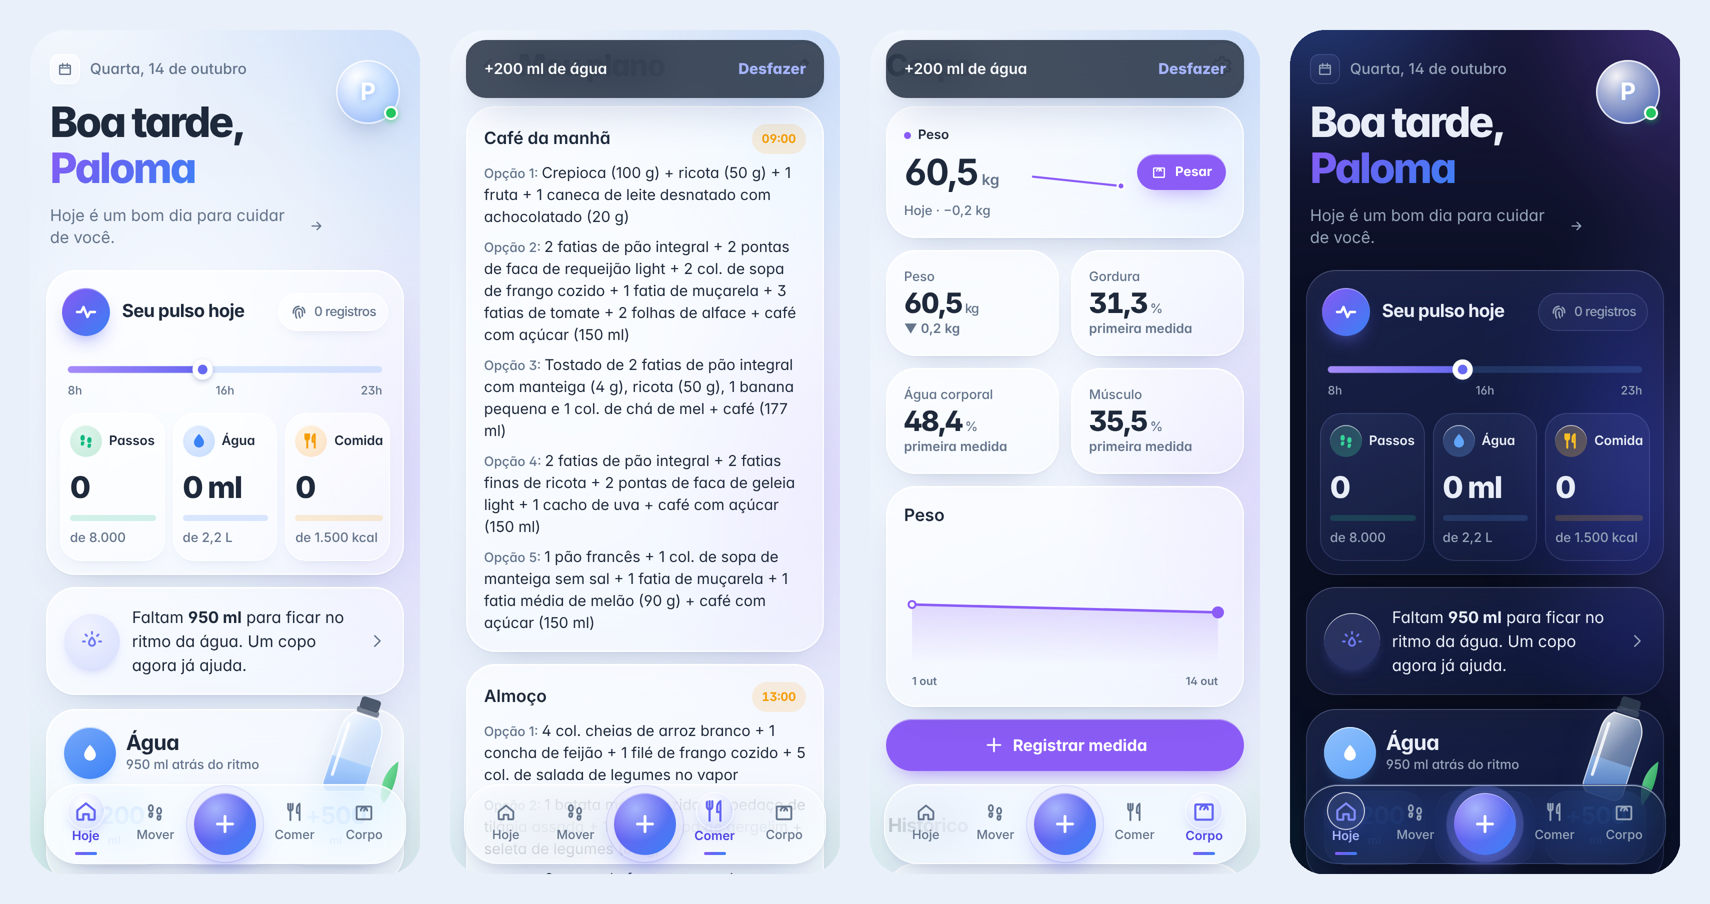
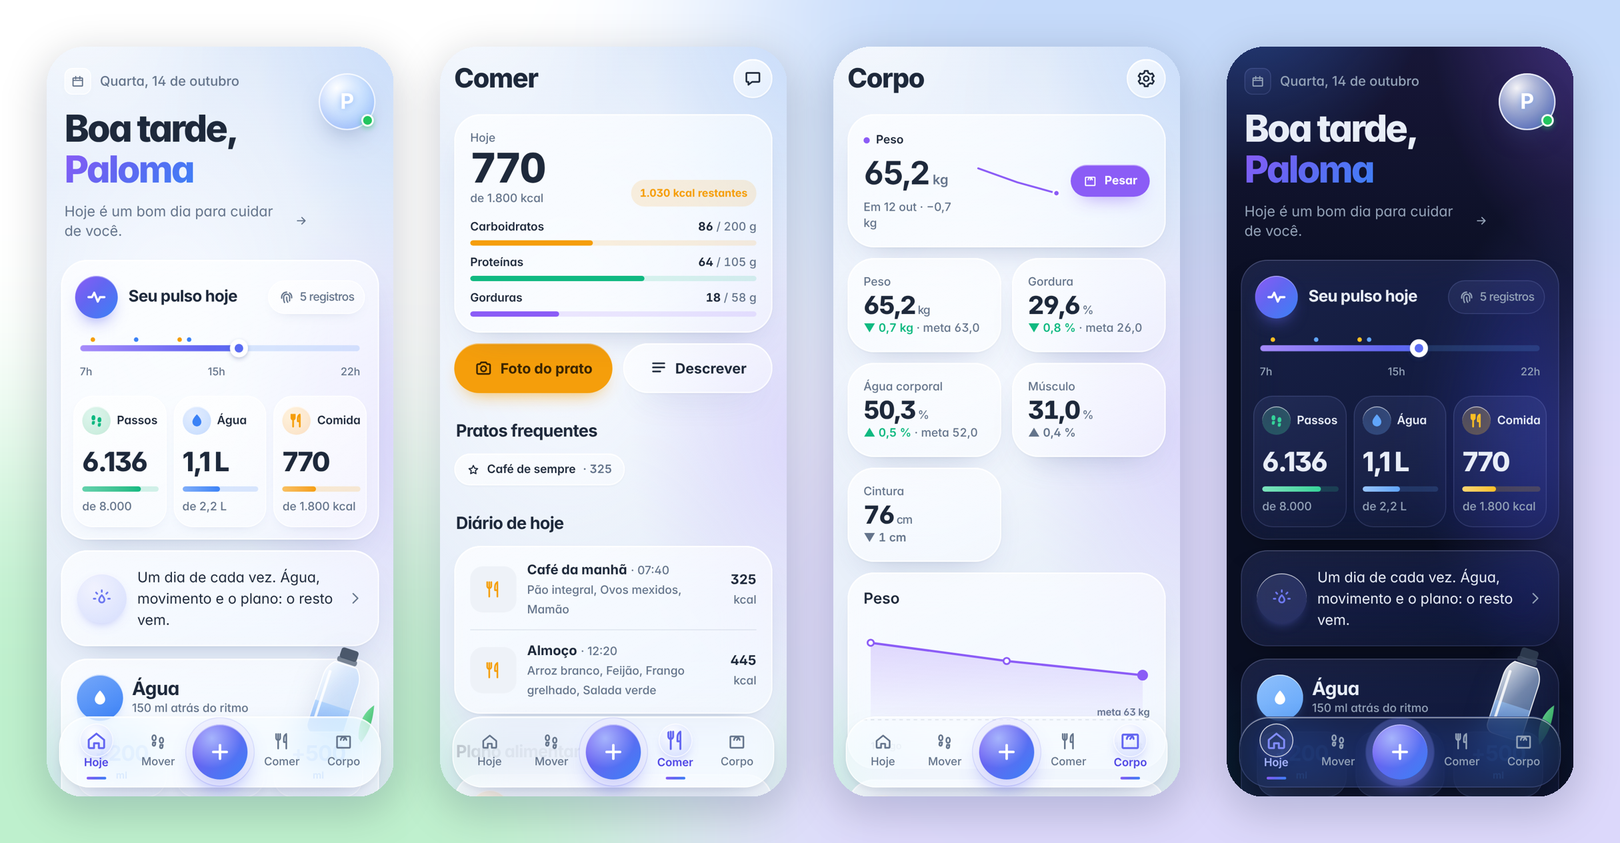
docs: README de produto com imagens novas

diff --git a/README.md b/README.md
@@ -1,112 +1,171 @@
 <div align="center">
 
-# Ritmo
+<img src="public/favicon.svg" width="88" alt="ritmo" />
 
-### Seu corpo, no seu ritmo: passos, corridas, comida com IA, água e corpo num app só.
+# ritmo
+
+### Saúde do dia a dia num app só: passos, água, comida com IA, corpo e corridas.
+
+**Beba água. Cuide do seu ritmo.**
+
+[![Abrir o ritmo](https://img.shields.io/badge/▶_Abrir_o_ritmo-6366F1?style=for-the-badge)](https://ritmo-tau-inky.vercel.app/)
 
 ![React](https://img.shields.io/badge/React-20232a?style=flat-square&logo=react&logoColor=61DAFB)
 ![TypeScript](https://img.shields.io/badge/TypeScript-007ACC?style=flat-square&logo=typescript&logoColor=white)
 ![Firebase](https://img.shields.io/badge/Firebase-039BE5?style=flat-square&logo=firebase&logoColor=white)
-![Gemini](https://img.shields.io/badge/Gemini-AI_Logic-8E75B2?style=flat-square)
-![PWA](https://img.shields.io/badge/PWA-instalável-FF5A4E?style=flat-square)
+![Gemini](https://img.shields.io/badge/IA-Gemini-8E75B2?style=flat-square)
+![PWA](https://img.shields.io/badge/PWA-instalável-3B82F6?style=flat-square)
 
-![Telas do Ritmo](docs/telas.png)
+<br />
+
+![O ritmo no computador e no celular](docs/hero.png)
 
 </div>
 
-## O que tem dentro
+## O problema
 
-| Módulo | O que faz |
-| --- | --- |
-| **Hoje** | 3 anéis (passos, água, comida), a frase útil do dia, água em 1 toque, a próxima refeição do plano e a última corrida. |
-| **Passos** | Total do dia, semana e mês com a meta, média, melhor dia e sequência. Vêm do app Saúde por um Atalho do iPhone. |
-| **Corrida** | GPS com mapa, tempo, pace atual e médio, pausa, parciais por km, recordes e importação de GPX. A tela fica acesa durante a corrida. |
-| **Comer** | Foto do prato → a IA lista os alimentos, estima calorias e macros e compara com o seu plano. Você corrige as porções antes de salvar. Também dá para descrever em texto, perguntar e salvar pratos frequentes. |
-| **Meu plano** | Mande o PDF ou as fotos do plano da nutricionista: a IA organiza por refeição e horário, e as metas do plano viram as metas do app. |
-| **Água** | Copos personalizados, desfazer, ritmo do dia e sequência. Ao bater a meta, marca o hábito no **Minha Rotina**. |
-| **Corpo** | Peso, gordura, água corporal, músculo e cintura com gráfico e meta. Gera os pontos de atenção que a IA usa nas dicas. |
+Quem segue um plano alimentar e tenta se mexer mais acaba com cinco apps abertos: um para a água, um para os passos, outro para contar calorias, uma planilha para o peso e o PDF da nutricionista perdido no WhatsApp. Nenhum conversa com o outro, e anotar tudo vira trabalho.
 
-Funciona offline (registra sem internet e sincroniza depois) e tem tema claro e escuro.
+## A solução
 
-## Ver as telas agora (sem configurar nada)
+O **ritmo** junta tudo numa tela só e tira o trabalho do caminho:
 
-```bash
-npm install
-npm run demo
-```
+- **Uma foto do prato** e a IA lista os alimentos, estima porções, calorias e macros, e diz se a refeição está dentro do seu plano.
+- **O plano da nutricionista vira o app.** Mande o PDF ou fotos: a IA organiza as refeições por horário, com as opções de substituição, e as metas do plano passam a ser as metas do dia.
+- **Os passos chegam sozinhos** do app Saúde do iPhone, várias vezes ao dia.
+- **Água em um toque**, com o ritmo do dia: o app sabe se você está atrasada para a meta, e quanto.
+- **Corpo com contexto**: peso, gordura, músculo e água corporal com gráfico, e uma balança para anotar o peso em segundos.
 
-Abre em `http://localhost:5180` com uma semana de dados de exemplo e a IA simulada.
+Tudo isso com a cara de um app nativo: instala na tela inicial do iPhone, abre em tela cheia e funciona offline.
 
-## Três jeitos de rodar
+<div align="center">
 
-| Modo | Como | Dados |
-| --- | --- | --- |
-| **Publicado** | Vercel + Firebase (abaixo) | Firestore, login Google, IA Gemini, passos do iPhone |
-| **Demo** | `npm run demo` | Exemplo, no navegador |
-| **Pessoal no Claude** | build com `--mode pessoal`, publicado como página do Claude | Na conta do Claude, IA do Claude |
+![Telas do ritmo no celular](docs/telas.png)
 
-No primeiro acesso do modo publicado, o plano da nutricionista, a meta de 1.500 kcal e a bioimpedância de 01/10 entram sozinhos (`src/dados/paloma.ts`).
+</div>
 
-## Colocar no ar
+## Funcionalidades
 
-### 1. Firebase
+### Hoje
+O painel do dia. A **linha do tempo** mostra do acordar ao dormir, com um ponto colorido para cada registro e um marcador no agora. Logo abaixo, passos, água e comida com barras de progresso, um **lembrete inteligente** ("Faltam **900 ml** para ficar no ritmo da água") e a próxima refeição do plano.
 
-O Ritmo usa o projeto próprio **`ritmo-77`**: ative **Authentication → Google**, crie o **Firestore** (`southamerica-east1`) e publique o `firestore.rules`. O `vercel.json` encaminha `/__/auth` para `ritmo-77.firebaseapp.com`; se trocar de projeto, troque ali também.
+### Comer
+- **Foto do prato** com análise por IA e revisão das porções antes de salvar.
+- **Descrever em texto** ("2 ovos e 1 pão francês") quando não dá para fotografar.
+- **Perguntar**: dúvidas rápidas respondidas com base no seu plano ("posso trocar arroz por batata?").
+- **Pratos frequentes** com um toque, e fotos sem internet que esperam na fila para analisar depois.
 
-A marcação automática do hábito de água no Minha Rotina só funciona quando os dois apps usam o mesmo projeto Firebase.
+### Mover
+- **Passos** do dia, da semana e do mês, com média, melhor dia e sequência na meta.
+- **Corrida com GPS**: mapa da rota, pace atual e médio, parciais por km, recordes e importação de GPX. A tela fica acesa durante a corrida.
 
-### 2. IA (Gemini pelo Firebase AI Logic)
+### Corpo
+- **Balança**: anote o peso com um toque e veja a variação.
+- **Bioimpedância**: tire foto do laudo e a IA preenche peso, gordura, músculo e água.
+- **Pontos de atenção** a partir das suas metas, que a IA leva em conta nas dicas de comida.
 
-1. Console do Firebase → **AI Logic** → Começar → **Gemini Developer API** (grátis, plano Spark).
-2. **App Check** (obrigatório para a IA a partir de 02/11/2026): Console → App Check → registre o app web com **reCAPTCHA v3** (grátis) ou reCAPTCHA Enterprise e cole a chave do site em `VITE_RECAPTCHA_V3_KEY` (ou `VITE_RECAPTCHA_ENTERPRISE_KEY`). Depois, em App Check → APIs → Firebase AI Logic, clique em **Aplicar**.
-3. Para testar no computador com o App Check ligado: rode `npm run dev`, copie o token de depuração que aparece no console do navegador e cadastre em App Check → Apps → Gerenciar tokens de depuração.
+### Água
+Copos personalizados, desfazer, histórico de 7 e 30 dias e sequência de dias na meta.
 
-O modelo vem de `VITE_GEMINI_MODEL` (padrão `gemini-3.5-flash-lite`, com o `gemini-3.5-flash` de reserva). Quando o Google aposentar um modelo, troque a variável na Vercel e publique de novo.
+## Design
 
-> No nível grátis, o Google pode usar o que é enviado à IA para melhorar os produtos dele. Foto de prato tudo bem; no plano alimentar, apague nome, CPF e contatos; o laudo de bioimpedância dá para digitar em vez de mandar a foto.
+Vidro fosco sobre luz azul difusa, tipografia Inter, azul e azul-violeta como marca e uma cor por área (verde para passos, azul para água, laranja para comida, violeta para o corpo).
 
-### 3. Vercel
+- **Celular:** barra de navegação flutuante, botão central para registrar qualquer coisa.
+- **Notebook e PC:** navegação lateral e o Hoje vira um painel em colunas.
+- **Claro e escuro**, seguindo o sistema ou escolhido no Perfil.
+- Ícone e telas de abertura próprios para o iPhone.
 
-1. Suba a pasta para um repositório `ritmo` no GitHub e importe na Vercel (Framework: Vite).
-2. Em **Settings → Environment Variables**, cadastre as variáveis do `.env.example`. Em `VITE_FIREBASE_AUTH_DOMAIN` use o domínio do Ritmo na Vercel (ex.: `ritmo-paloma.vercel.app`): o `vercel.json` encaminha `/__/auth` para o Firebase, que é o que faz o login funcionar no app da tela inicial do iPhone.
-3. No Firebase: **Authentication → Settings → Authorized domains** → adicione o domínio do Ritmo.
-4. No Google Cloud (APIs e serviços → Credenciais → o cliente OAuth "Web client (auto created by Google Service)"): adicione `https://SEU-DOMINIO/__/auth/handler` em **URIs de redirecionamento autorizados**.
-5. Abra no Safari do iPhone → Compartilhar → **Adicionar à Tela de Início**.
+## Privacidade
 
-### 4. Passos do iPhone
-
-No app: **Perfil → Passos do iPhone**. O passo a passo do Atalho está lá, com os valores prontos para copiar. O Atalho lê o app Saúde e grava pela API REST do Firestore entrando com o seu próprio token, então as regras de segurança continuam valendo.
+- Cada pessoa só enxerga os próprios dados: as regras do banco bloqueiam qualquer acesso que não seja o da dona da conta.
+- A IA é protegida por **App Check**: só o app publicado consegue usá-la.
+- O token dos passos é pessoal, pode ser trocado a qualquer momento e só grava os passos do dia.
 
 ## Como é feito
 
 | Camada | Escolha |
 | --- | --- |
-| Frontend | React · Vite · TypeScript · CSS próprio (sem framework) |
-| Login | Firebase Auth (Google), redirect no celular |
+| Interface | React 18 · Vite · TypeScript · CSS próprio, sem framework visual |
+| App instalável | PWA com cache offline e telas de abertura do iOS |
+| Login | Firebase Authentication (Google) |
 | Banco | Cloud Firestore com cache offline |
-| IA | Firebase AI Logic + Gemini, com resposta em JSON por schema |
-| Mapa | Leaflet + OpenStreetMap (e um desenho em SVG quando não há internet) |
-| Deploy | Vercel |
+| IA | Firebase AI Logic + Gemini, respostas em JSON por schema, troca de modelo automática se um estiver lotado |
+| Proteção | App Check com Fraud Defense (reCAPTCHA Enterprise) |
+| Passos | Atalho do iPhone → função serverless `/api/passos` |
+| Mapa | Leaflet + OpenStreetMap, com desenho em SVG quando não há internet |
+| Hospedagem | Vercel |
 
-As contas (distância por Haversine, filtro de GPS, parciais, ritmo da água, sequências, porções, pontos de atenção, insight do dia) moram em funções puras em `src/lib`, testadas com `npm test`.
+As contas (distância por Haversine, filtro de GPS, parciais, ritmo da água, sequências, porções, pontos de atenção e o lembrete do dia) são funções puras em `src/lib`, cada uma com teste.
 
 ```
+api/            função que recebe os passos do Atalho
 src/
-  app/          estado global, rotas, ações compartilhadas
-  componentes/  anel, gráficos, mapa, barra inferior, ícones
-  dados/        Firestore de verdade e o modo demonstração (mesma interface)
-  ia/           prompts e a chamada ao Gemini
+  app/          estado global, rotas e ações compartilhadas
+  componentes/  linha do dia, balança, gráficos, mapa, navegação, ícones
+  dados/        Firestore e o modo demonstração (mesma interface)
+  ia/           prompts e chamadas ao Gemini
   lib/          as contas, cada uma com teste
   telas/        uma tela por arquivo
 ```
 
-## Comandos
+## Rodar no computador
+
+```bash
+npm install
+npm run demo   # dados de exemplo, sem configurar nada
+npm run dev    # com o Firebase de verdade (precisa do .env)
+```
 
 | Comando | Para quê |
 | --- | --- |
-| `npm run dev` | Rodar com o Firebase de verdade |
-| `npm run demo` | Rodar com dados de exemplo |
+| `npm run demo` | Ver todas as telas com uma semana de dados de exemplo |
+| `npm run dev` | Rodar com Firebase, login e IA |
 | `npm run build` | Gerar a versão de produção |
 | `npm test` | Rodar os testes |
 | `npm run typecheck` | Checar os tipos |
 | `npm run icones` | Regerar ícones e telas de abertura a partir de `public/logo.svg` |
+
+## Publicar
+
+### Firebase
+1. Crie o projeto, ative **Authentication → Google** e crie o **Firestore** (edição Standard, `southamerica-east1`).
+2. Cole o conteúdo de `firestore.rules` na aba **Regras** do Firestore e publique.
+3. **AI Logic → Começar → Gemini Developer API** (funciona no plano grátis).
+4. **App Check → Apps →** registre o app web com **Fraud Defense** usando a chave de site do reCAPTCHA (criada em Google Cloud → Segurança → reCAPTCHA, tipo Web, sem desafio de caixa).
+5. **Authentication → Configurações → Domínios autorizados:** adicione o domínio da Vercel.
+
+### Google Cloud
+Em **APIs e serviços → Credenciais → Web client (auto created by Google Service)**, adicione o domínio em *Origens JavaScript autorizadas* e `https://SEU-DOMINIO/__/auth/handler` em *URIs de redirecionamento autorizados*.
+
+### Vercel
+Importe o repositório (framework **Vite**) e cadastre as variáveis do `.env.example`:
+
+| Variável | Valor |
+| --- | --- |
+| `VITE_FIREBASE_*` | A config do app web do Firebase |
+| `VITE_FIREBASE_AUTH_DOMAIN` | O domínio da **Vercel** (não o `firebaseapp.com`): é o que faz o login funcionar no app instalado no iPhone |
+| `VITE_RECAPTCHA_ENTERPRISE_KEY` | A chave de site usada no App Check |
+| `VITE_GEMINI_MODEL` | Opcional. Padrão `gemini-3.5-flash-lite`, com `gemini-3.5-flash` de reserva |
+
+O `vercel.json` encaminha `/__/auth` para o `firebaseapp.com` do projeto. Se trocar de projeto Firebase, troque ali também.
+
+### Passos do iPhone
+No app, **Perfil → Passos do iPhone** mostra o endereço e o token para copiar. O Atalho tem só três ações: *Localizar Amostras de Saúde* (Passos, hoje), *Calcular Estatísticas* (Soma) e *Obter Conteúdo do URL* (POST, JSON com `passos` e `token`). Uma automação por horário faz o resto.
+
+## Próximos passos
+
+- Lembretes de água e de refeição por notificação.
+- Resumo semanal com o que melhorou e o que vale ajustar.
+- Compartilhar o progresso com a nutricionista.
+- Planos para mais de uma pessoa (hoje o app é pessoal).
+
+---
+
+<div align="center">
+
+**ritmo** · pequenos hábitos, grandes resultados.
+
+© 2026 Paloma Lorenzon. Todos os direitos reservados.
+
+</div>
